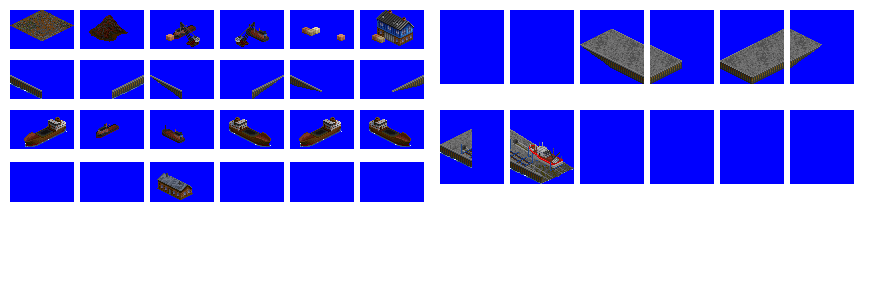
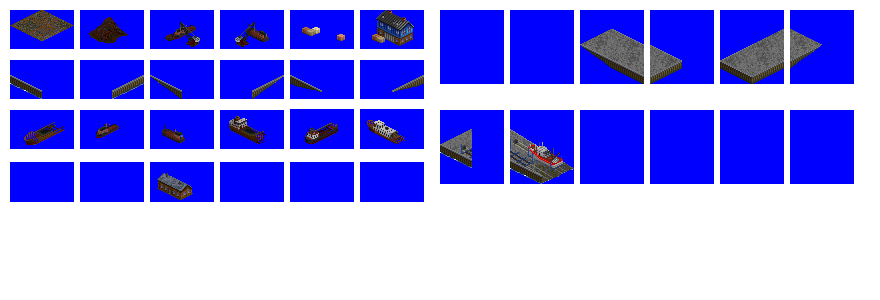
new hotel and shipbreaker

diff --git a/src/industries/hotel.py b/src/industries/hotel.py
@@ -12,7 +12,7 @@ industry = IndustryTertiary(
     prospect_chance="0.75",
     name="string(STR_IND_HOTEL)",
     nearby_station_name="string(STR_STATION_BAR_GRILL_AND_ROOMS)",
-    fund_cost_multiplier="101",
+    fund_cost_multiplier="102",
 )
 
 industry.economy_variations["BASIC_TEMPERATE"].enabled = True
@@ -21,6 +21,12 @@ industry.economy_variations["BASIC_TROPIC"].enabled = True
 
 industry.economy_variations["BASIC_ARCTIC"].enabled = True
 industry.economy_variations["BASIC_ARCTIC"].accept_cargo_types = [
+    "FOOD",
+    "PASS",
+]
+
+industry.economy_variations["STEELTOWN"].enabled = True
+industry.economy_variations["STEELTOWN"].accept_cargo_types = [
     "FOOD",
     "PASS",
 ]
@@ -39,13 +45,40 @@ industry.add_tile(
 
 sprite_ground = industry.add_sprite(sprite_number="GROUNDSPRITE_CLEARED")
 spriteset_ground_overlay = industry.add_spriteset(
-    type="empty",
+    type="slab",
 )
+
+sprite_ground_3 = industry.add_sprite(
+    sprite_number=1448
+)
+sprite_ground_4 = industry.add_sprite(
+    sprite_number=1451
+)
+
+sprite_ground_5 = industry.add_sprite(
+    sprite_number=4485
+)
+sprite_ground_6 = industry.add_sprite(
+    sprite_number=4486
+)
+
 sprite_building_1 = industry.add_sprite(
     sprite_number="(terrain_type == TILETYPE_SNOW) ? 4583 : 4475"
 )
 sprite_building_2 = industry.add_sprite(
     sprite_number="(terrain_type == TILETYPE_SNOW) ? 4584 : 4476"
+)
+sprite_building_3 = industry.add_sprite(
+    sprite_number=1450
+)
+sprite_building_4 = industry.add_sprite(
+    sprite_number=1453
+)
+sprite_building_5 = industry.add_sprite(
+    sprite_number=4491
+)
+sprite_building_6 = industry.add_sprite(
+    sprite_number=4492
 )
 
 industry.add_spritelayout(
@@ -61,12 +94,54 @@ industry.add_spritelayout(
     building_sprites=[sprite_building_2],
 )
 
+industry.add_spritelayout(
+    id="hotel_spritelayout_3",
+    ground_sprite=sprite_ground,
+    ground_overlay=spriteset_ground_overlay,
+    building_sprites=[sprite_ground_3, sprite_building_3],
+)
+industry.add_spritelayout(
+    id="hotel_spritelayout_4",
+    ground_sprite=sprite_ground,
+    ground_overlay=spriteset_ground_overlay,
+    building_sprites=[sprite_ground_4, sprite_building_4],
+)
+
+industry.add_spritelayout(
+    id="hotel_spritelayout_5",
+    ground_sprite=sprite_ground,
+    ground_overlay=spriteset_ground_overlay,
+    building_sprites=[sprite_ground_5, sprite_building_5],
+)
+industry.add_spritelayout(
+    id="hotel_spritelayout_6",
+    ground_sprite=sprite_ground,
+    ground_overlay=spriteset_ground_overlay,
+    building_sprites=[sprite_ground_6, sprite_building_6],
+)
+
 industry.add_industry_layout(
-    id="hotel_industry_layout",
+    id="hotel_industry_layout_1",
     layout=[
         (0, 0, "hotel_tile_1", "hotel_spritelayout_1"),
         (1, 0, "hotel_tile_1", "hotel_spritelayout_1"),
         (0, 1, "hotel_tile_1", "hotel_spritelayout_2"),
         (1, 1, "hotel_tile_1", "hotel_spritelayout_2"),
+    ],
+)
+
+industry.add_industry_layout(
+    id="hotel_industry_layout_2",
+    layout=[
+        (0, 0, "hotel_tile_1", "hotel_spritelayout_3"),
+        (0, 1, "hotel_tile_1", "hotel_spritelayout_4"),
+    ],
+)
+
+industry.add_industry_layout(
+    id="hotel_industry_layout_3",
+    layout=[
+        (0, 0, "hotel_tile_1", "hotel_spritelayout_5"),
+        (1, 0, "hotel_tile_1", "hotel_spritelayout_6"),
     ],
 )
